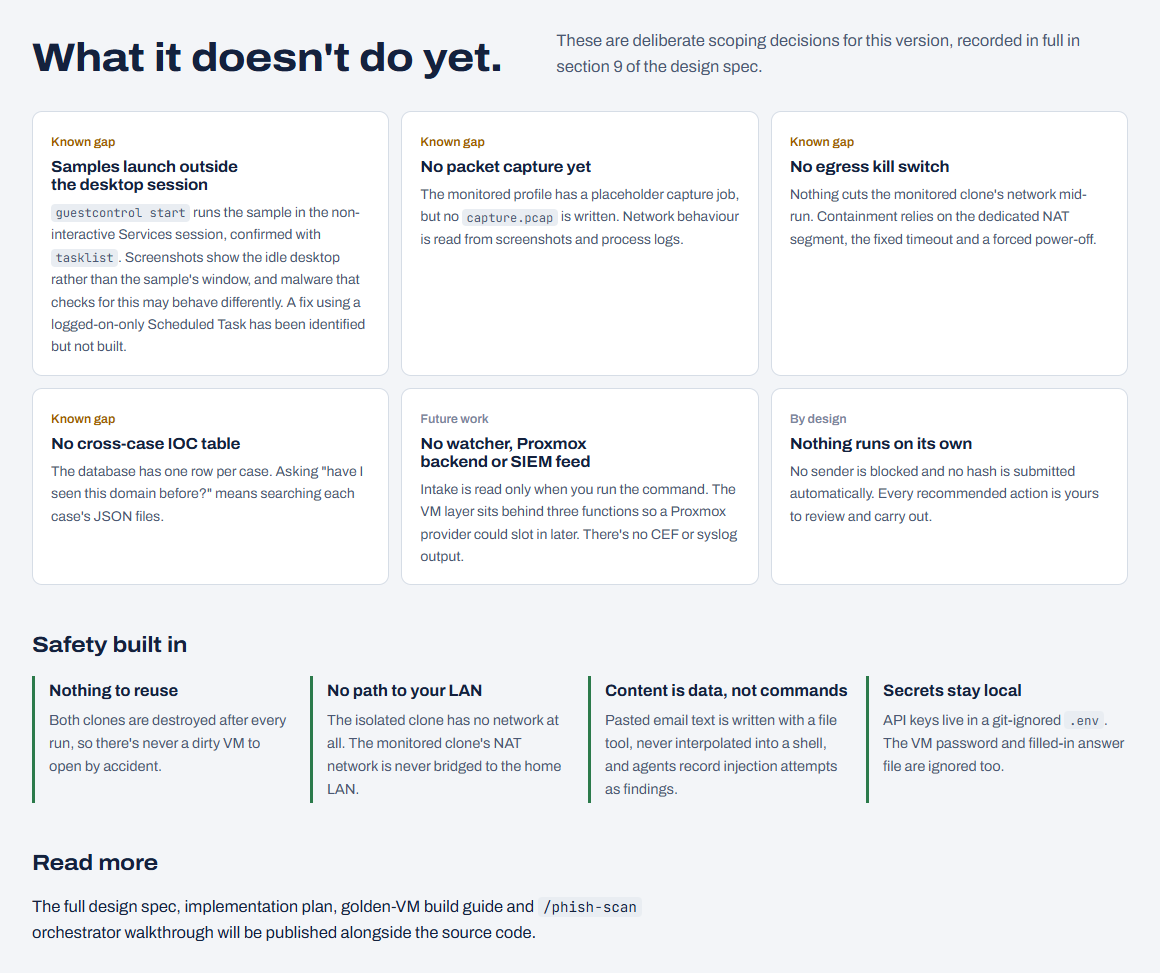
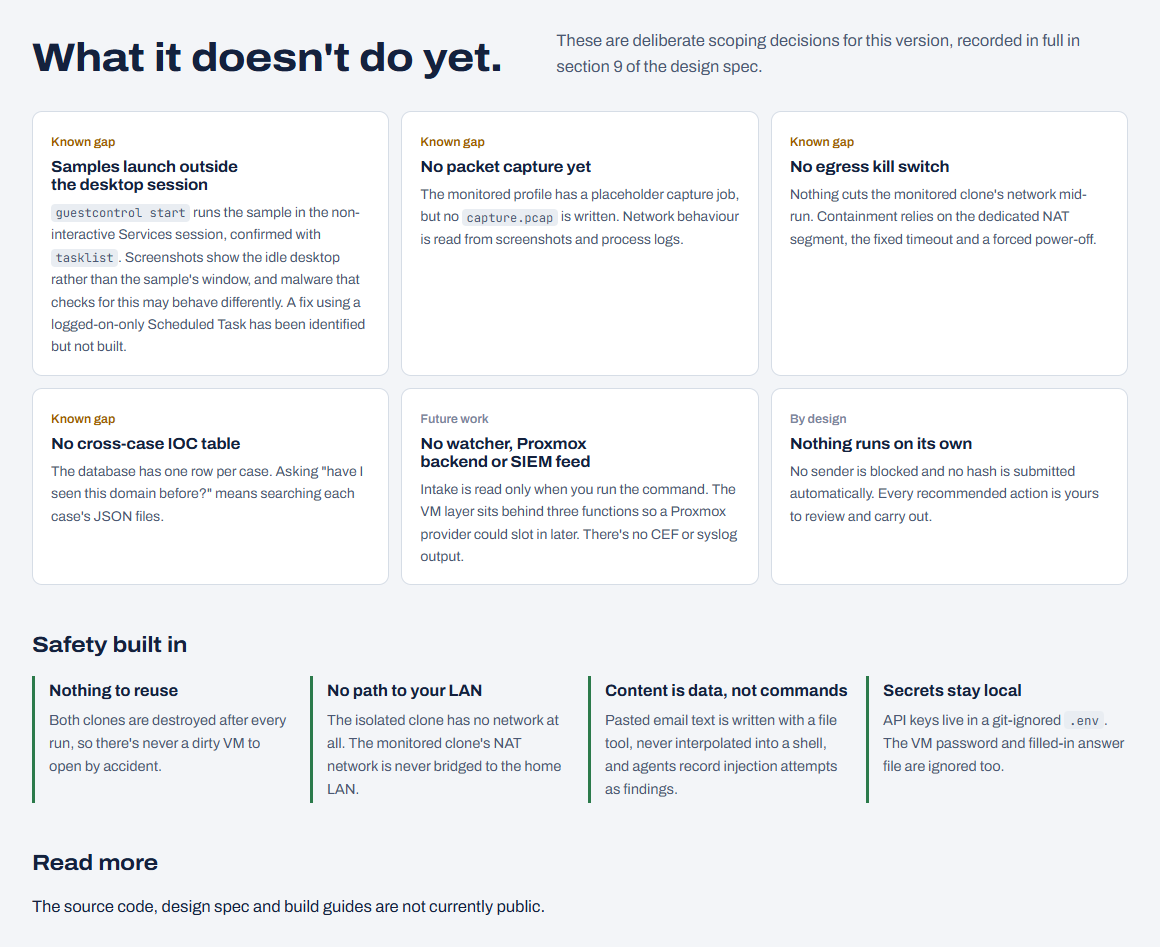
Replace source-code release promise with neutral wording

diff --git a/index.html b/index.html
@@ -891,7 +891,7 @@
       </div>
 
       <h3 style="margin:48px 0 18px;font-size:22px">Read more</h3>
-      <p>The full design spec, implementation plan, golden-VM build guide and <code>/phish-scan</code> orchestrator walkthrough will be published alongside the source code.</p>
+      <p>The source code, design spec and build guides are not currently public.</p>
     </div>
   </section>
 </main>
